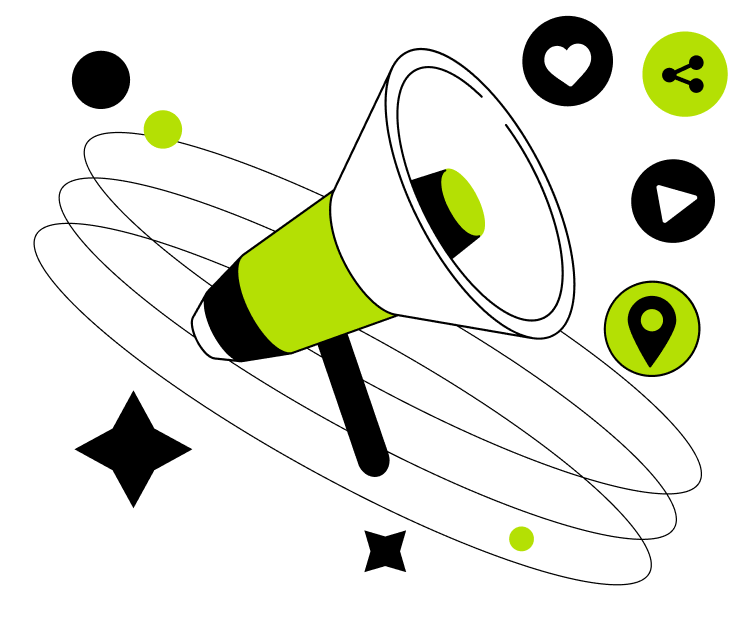
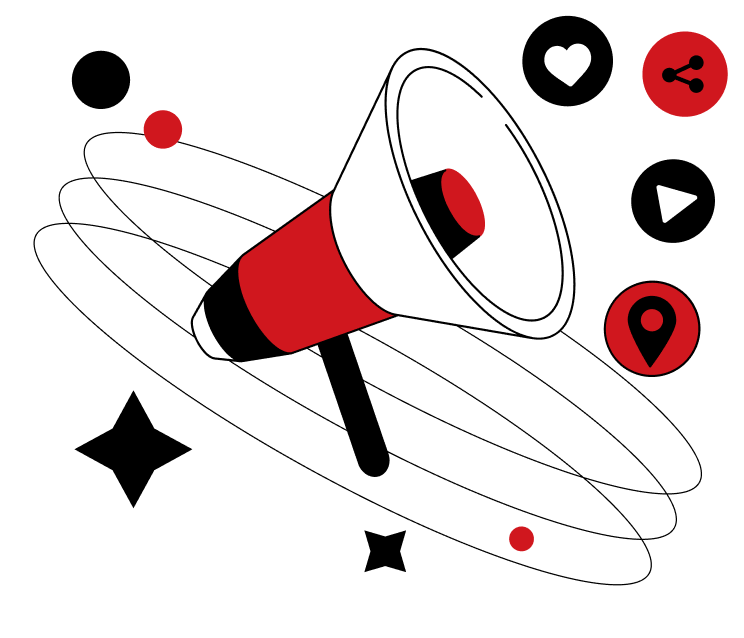
changes

diff --git a/src/components/Mission.jsx b/src/components/Mission.jsx
@@ -1,16 +1,23 @@
-import React from 'react';
+import React from "react";
 
 function Mission() {
   return (
-    <section className="container mx-auto px-4 py-16 text-center">
-      <p className="text-lg text-green-500">Empowering Students to Shape the Future</p>
-      <h2 className="text-4xl font-bold max-w-2xl mt-4 leading-tight mx-auto text-center">
-        We connect brilliant minds with leading brands, enabling students to showcase their talents and unlock new opportunities.
+    <section className="container mx-auto px-6 py-16 ">
+    <p className="text-xl font-normal">
+  Empowering Students to <span className="text-[#D0171E] text-xl">Lead the Future</span>
+</p>
+    <div className="flex flex-col ">
+      <h2 className="text-4xl mt-4 leading-snug text-left flex flex-col">
+        <span className="inline-block ">Connecting students with top organizations,</span>
+        <span className="inline-block ">offering a platform to showcase skills,</span>
+        <span className="inline-block ">collaborate, and discover opportunities.</span>
       </h2>
-      <button className="mt-8 border border-black px-6 py-3 rounded-full hover:bg-black hover:text-white transition-all duration-300">
-        Learn More
-      </button>
-    </section>
+    </div>
+    <button className="mt-8 border border-black px-6 py-3 rounded-full hover:bg-black hover:text-white transition-all duration-300">
+      Learn More
+    </button>
+  </section>
+  
   );
 }
 

diff --git a/src/components/Hero.jsx b/src/components/Hero.jsx
@@ -1,19 +1,21 @@
-import React from 'react';
-import { FaHeart, FaPlay, FaMapMarkerAlt, FaShare } from 'react-icons/fa';
-import megaphone from '../assets/megaphone.png';
+import React from "react";
+import { FaHeart, FaPlay, FaMapMarkerAlt, FaShare } from "react-icons/fa";
+import megaphone from "../assets/megaphone.png";
 
 function Hero() {
   return (
     <section className="container mx-auto px-4 py-16 grid md:grid-cols-2 items-center gap-8">
       {/* Left Section: Text Content */}
       <div className="text-center md:text-left">
-        <h1 className="text-6xl font-bold mb-4 tracking-tight leading-tight">
-          skill.<br />
-          <span className="text-[#9EC500] px-2">swipe.</span><br />
-          excel.
+        <h1 className="text-6xl font-bold tracking-tight leading-tight">
+          skill
         </h1>
+        <h1 className="text-[#D0171E] text-6xl font-bold tracking-tight leading-tight">
+          swipe
+        </h1>
+        <h1 className="text-6xl font-bold mb-4 tracking-tight leading-tight">excel</h1>
         <p className="text-xl mb-8">
-          Find the perfect teammates, participate in exciting missions, and showcase your skills.
+        Join hands with fellow students, participate in exciting challenges, and develop your skills—all on one platform.
         </p>
         <button className="bg-black text-white px-6 py-3 rounded-full hover:bg-gray-800 transition-colors duration-200">
           GET STARTED

diff --git a/src/components/Navigation.jsx b/src/components/Navigation.jsx
@@ -9,7 +9,7 @@ function Navigation() {
     <nav className="flex items-center justify-between p-4 shadow-sm">
       <div className="flex items-center">
         <Link to="/">
-          <img src={logo} alt="Skill Swipe Logo" className="h-8" />
+          <img src={logo} alt="Skill Swipe Logo" className="h-12" /> 
         </Link>
       </div>
       <div className="flex items-center gap-6">
@@ -22,7 +22,7 @@ function Navigation() {
         <Link to="/opportunities" className="text-gray-700 hover:text-black transition-colors duration-300">
           OPPORTUNITIES
         </Link>
-        <button className="bg-[#c1ff72] px-4 py-2 rounded-full font-medium hover:bg-[#b1ef62] transition-all duration-300">
+        <button className="bg-[#D0171E] px-4 py-2 rounded-full font-medium text-white transition-all duration-300">
           SIGN UP
         </button>
         <button className="border border-gray-300 px-4 py-2 rounded-full hover:bg-gray-100 transition-all duration-300">
